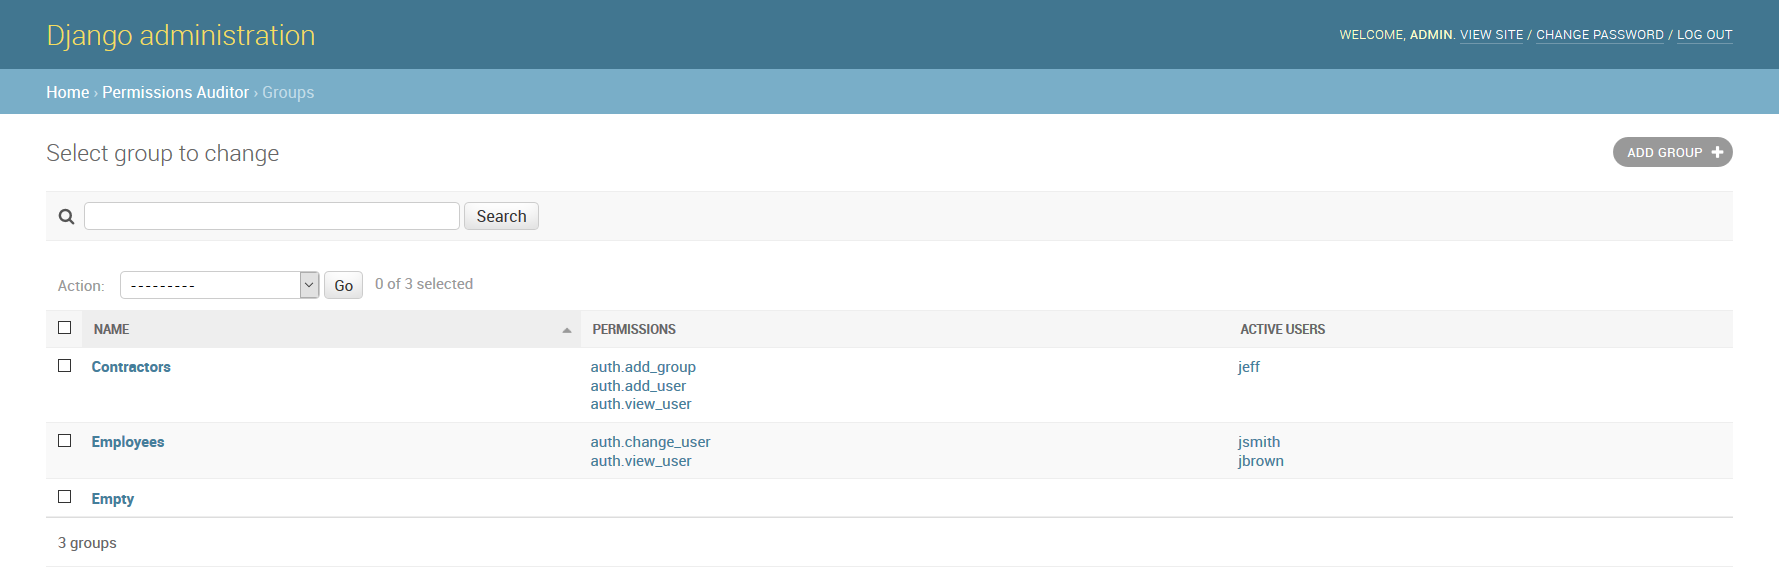
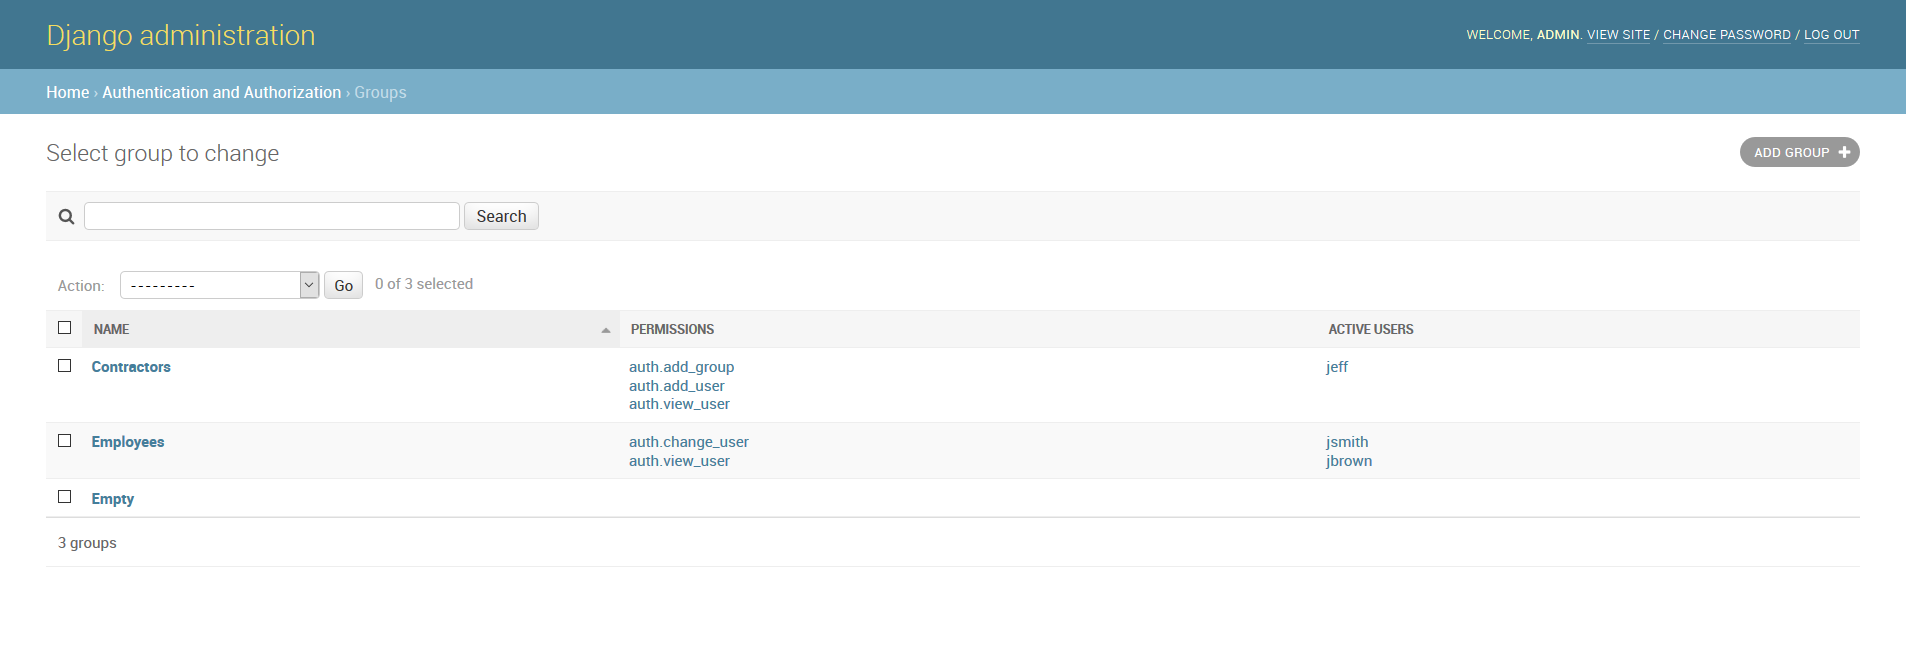
Add check_view_permissions management command, override default django groups admin instead of creating a separate one

diff --git a/permissions_auditor/admin.py b/permissions_auditor/admin.py
@@ -2,7 +2,7 @@ from django.contrib import admin
 from django.contrib.admin import helpers
 from django.contrib.auth import get_user_model
 from django.contrib.auth.admin import GroupAdmin
-from django.contrib.auth.models import Group as DjangoGroupModel, Permission
+from django.contrib.auth.models import Group, Permission
 from django.db import models
 from django.db.models import Prefetch
 from django.template.response import TemplateResponse
@@ -20,14 +20,6 @@ class View(models.Model):
         managed = False
         verbose_name = 'permission'
         verbose_name_plural = _('Site Views')
-        app_label = 'permissions_auditor'
-
-
-class Group(DjangoGroupModel):
-    """Proxy model to display groups page in the admin."""
-    class Meta:
-        proxy = True
-        managed = False
         app_label = 'permissions_auditor'
 
 
@@ -179,22 +171,10 @@ class AuditorGroupAdmin(GroupAdmin):
             )
         )
 
-    def has_view_permission(self, request, obj=None):
-        return request.user.has_perm('auth.view_group')
-
-    def has_add_permission(self, request, obj=None):
-        return request.user.has_perm('auth.add_group')
-
-    def has_change_permission(self, request, obj=None):
-        return request.user.has_perm('auth.change_group')
-
-    def has_delete_permission(self, request, obj=None):
-        return request.user.has_perm('auth.delete_group')
-
-    def has_module_permission(self, request):
-        return self.has_view_permission(request) or self.has_change_permission(request)
-
 
 if _get_setting('PERMISSIONS_AUDITOR_ADMIN'):
     admin.site.register(View, ViewsIndexAdmin)
-    admin.site.register(Group, AuditorGroupAdmin)
+
+    if _get_setting('PERMISSIONS_AUDITOR_ADMIN_OVERRIDE_GROUPS'):
+        admin.site.unregister(Group)
+        admin.site.register(Group, AuditorGroupAdmin)

diff --git a/permissions_auditor/management/commands/check_view_permissions.py b/permissions_auditor/management/commands/check_view_permissions.py
@@ -1,0 +1,41 @@
+from django.contrib.auth.models import Permission
+from django.core.management.base import BaseCommand
+
+from permissions_auditor.core import get_views
+
+
+class Command(BaseCommand):
+    help = 'Parse all view permissions, and find any that are missing from the database.'
+
+    def get_view_permissions(self):
+        views = get_views()
+        permissions = []
+
+        for view in views:
+            permissions.extend(view.permissions)
+
+        return list(set(permissions))
+
+    def get_db_permissions(self):
+        permissions = Permission.objects.all().values_list('content_type__app_label', 'codename')
+        return ["{}.{}".format(ct, codename) for ct, codename in permissions]
+
+    def handle(self, *args, **options):
+        view_permissions = self.get_view_permissions()
+        db_permissions = self.get_db_permissions()
+        missing_perms = []
+
+        for permission in view_permissions:
+            if permission not in db_permissions:
+                missing_perms.append(permission)
+
+
+        print(missing_perms)
+
+        if missing_perms:
+            for permission in missing_perms:
+                self.stdout.write(self.style.WARNING(
+                    'Warning: No database entry found for permission `{}`.'.format(permission)
+                ))
+        else:
+            self.stdout.write(self.style.SUCCESS('No permissions without database entries found.'))

diff --git a/permissions_auditor/tests/test_core.py b/permissions_auditor/tests/test_core.py
@@ -54,6 +54,12 @@ class GetViewsTest(SimpleTestCase):
                 permissions=[], login_required=False, docstring=''
             ),
             ViewDetails(
+                module=self.module, name='PermissionRequiredMultiView',
+                url='/multi_perm_view/',
+                permissions=['tests.test_perm', 'tests.test_perm2'],
+                login_required=True, docstring=''
+            ),
+            ViewDetails(
                 module=self.module, name='login_required_view',
                 url='/new_style/login_required/',
                 permissions=[], login_required=True, docstring=''

diff --git a/example/test_app/urls.py b/example/test_app/urls.py
@@ -11,8 +11,10 @@ cbv_namespace = ([
 
 func_namespaces = ([
     path('users/', function_based.user_index, name='user_index'),
+    path('users/', cbv_based.UserIndex.as_view(), name='user_index'),
     path('super_users/', function_based.superuser_index, name='superuser_index'),
     path('permissions/', function_based.permissions_index, name='permissions_index'),
+    path('invalid/', function_based.invalid_permission_view, name='invalid_permission_view'),
 ], 'func')
 
 urlpatterns = [

diff --git a/permissions_auditor/tests/test_management.py b/permissions_auditor/tests/test_management.py
@@ -1,0 +1,12 @@
+from io import StringIO
+from django.core.management import call_command
+from django.test import TestCase
+
+
+class CheckViewPermsTest(TestCase):
+
+    def test_command_output(self):
+        out = StringIO()
+        call_command('check_view_permissions', stdout=out)
+        self.assertIn('`tests.test_perm`', out.getvalue())
+        self.assertIn('`tests.test_perm2`', out.getvalue())

diff --git a/permissions_auditor/tests/test_settings.py b/permissions_auditor/tests/test_settings.py
@@ -4,6 +4,11 @@ CACHES = {
         'BACKEND': 'django.core.cache.backends.dummy.DummyCache',
     }
 }
+DATABASES = {
+    'default': {
+        'ENGINE': 'django.db.backends.sqlite3'
+    }
+}
 MIDDLEWARE = [
     'django.contrib.sessions.middleware.SessionMiddleware',
     'django.contrib.messages.middleware.MessageMiddleware',

diff --git a/example/test_app/views/function_based.py b/example/test_app/views/function_based.py
@@ -30,3 +30,8 @@ def permissions_index(request):
         'views': get_views()
     }
     return render(request, 'permissions_list.html', context)
+
+
+@permission_required('perm.does_not_exist')
+def invalid_permission_view(request):
+    return render(request, 'base.html', {})

diff --git a/permissions_auditor/defaults.py b/permissions_auditor/defaults.py
@@ -18,6 +18,8 @@ PERMISSIONS_AUDITOR_BLACKLIST = {
     'modules': [],
 }
 PERMISSIONS_AUDITOR_ADMIN = True
+PERMISSIONS_AUDITOR_ADMIN_OVERRIDE_GROUPS = True
+
 PERMISSIONS_AUDITOR_ROOT_URLCONF = settings.ROOT_URLCONF
 
 PERMISSIONS_AUDITOR_CACHE_KEY = 'permissions_auditor_views'

diff --git a/permissions_auditor/tests/fixtures/urls.py b/permissions_auditor/tests/fixtures/urls.py
@@ -19,6 +19,7 @@ old_style_urls = ([
 
 urlpatterns = [
     path('', views.BaseView.as_view()),
+    path('multi_perm_view/', views.PermissionRequiredMultiView.as_view()),
 
     path('new_style/', include(new_style_urls)),
     path('admin/', include(admin_namespace)),

diff --git a/permissions_auditor/__init__.py b/permissions_auditor/__init__.py
@@ -1,6 +1,6 @@
 "Permissions auditing for Django."
 
-__version__ = '0.4.3'
+__version__ = '0.5.0'
 
 
 default_app_config = 'permissions_auditor.apps.PermissionsAuditorConfig'

diff --git a/docs/management_commands.rst b/docs/management_commands.rst
@@ -1,0 +1,19 @@
+Management Commands
+===================
+
+check_view_permissions
+----------------------
+
+:synopsis: Checks that all detected view permissions exist in the database.
+
+Uses permissions found on your project's views and compares the with the permissions
+that exist within the database. Useful for catching typos when specifying permissions.
+
+
+Example Usage
+-------------
+
+::
+
+  $ python manage.py check_view_permissions
+

diff --git a/docs/settings.rst b/docs/settings.rst
@@ -62,6 +62,18 @@ Default: ``TRUE``
 
 
 
+.. _PERMISSIONS_AUDITOR_ADMIN_OVERRIDE_GROUPS:
+
+PERMISSIONS_AUDITOR_ADMIN_OVERRIDE_GROUPS
+-----------------------------------------
+
+Override the default django groups admin with the permissions auditor version. Has no effect if
+:ref:`PERMISSIONS_AUDITOR_ADMIN` is set to ``False``.
+
+Default: ``True``
+
+
+
 .. _PERMISSIONS_AUDITOR_ROOT_URLCONF:
 
 PERMISSIONS_AUDITOR_ROOT_URLCONF
